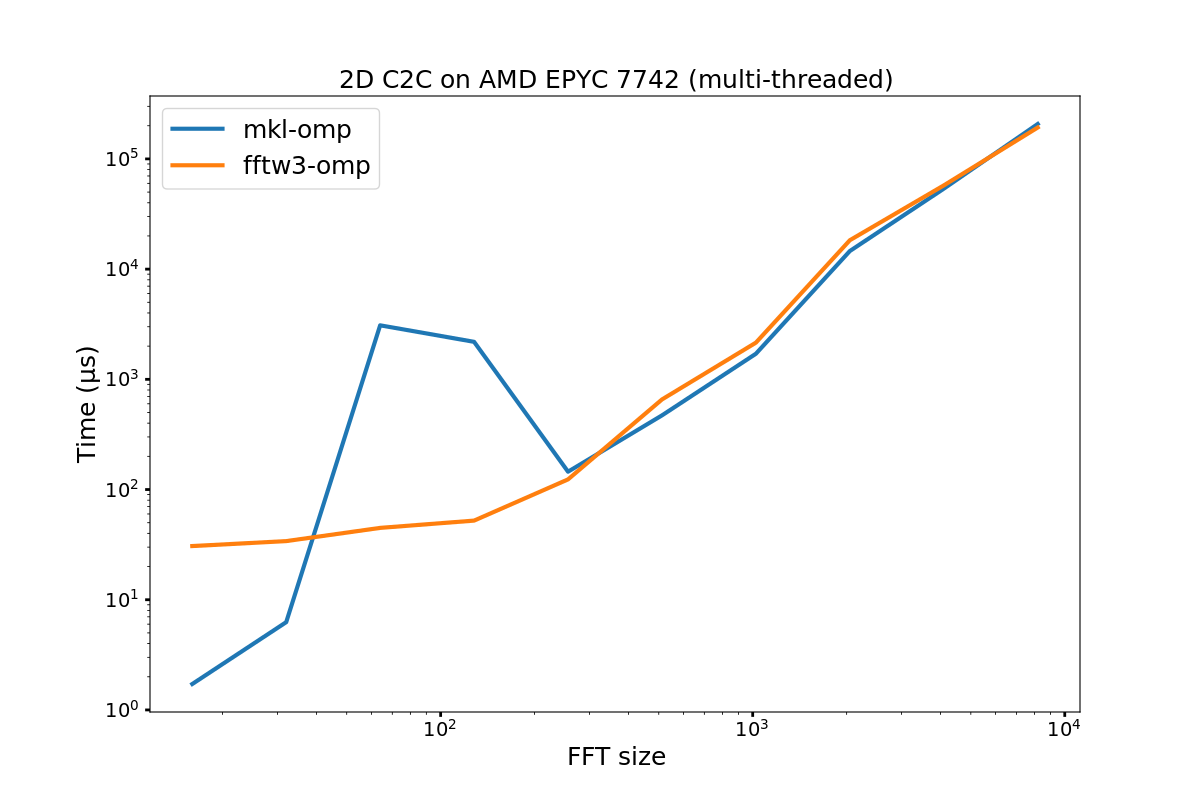
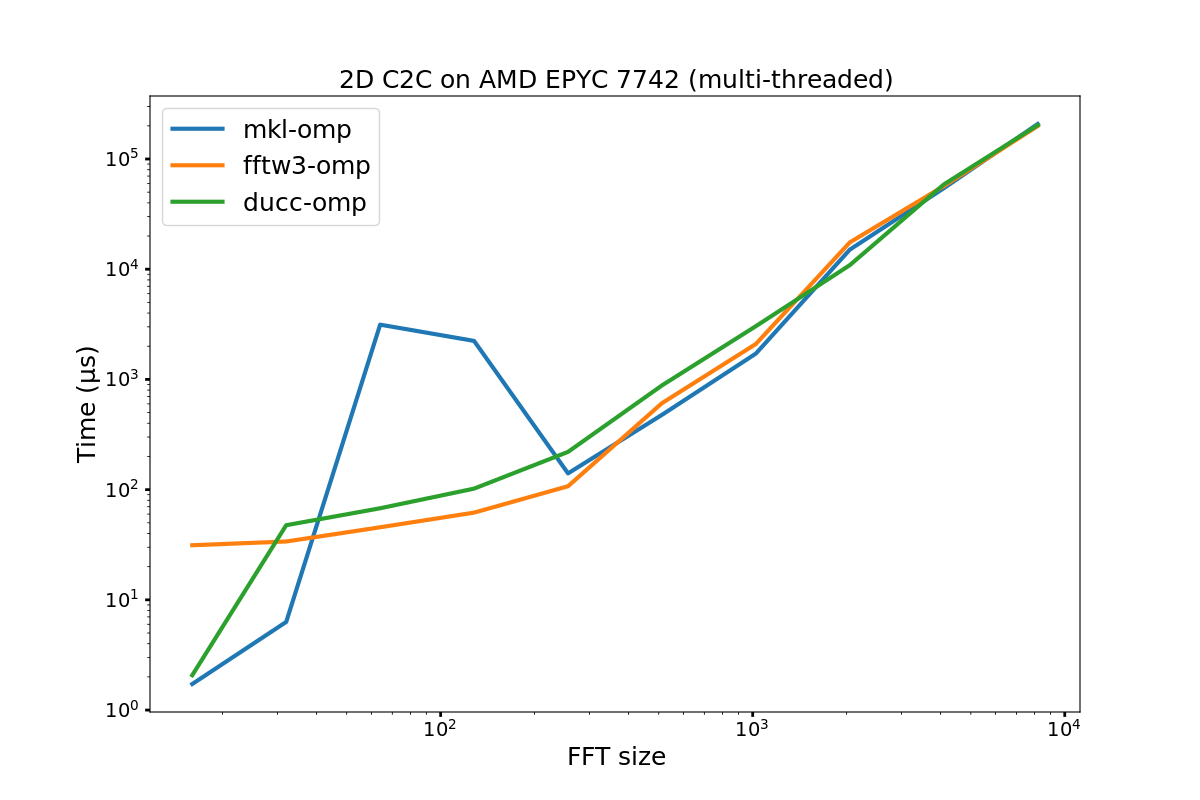
Add results from ducc

diff --git a/fi/collect_results.py b/fi/collect_results.py
@@ -16,7 +16,7 @@ mainfont = {
 }
 
 arches = ['rome', 'skylake', 'icelake']
-implementations = ['mkl', 'fftw3', 'mkl-omp', 'fftw3-omp', 'pocket', 'kiss']
+implementations = ['mkl', 'fftw3', 'mkl-omp', 'fftw3-omp', 'pocket', 'kiss', 'ducc', 'ducc-omp']
 
 cpu_data = {
     'rome': 'AMD EPYC 7742',
